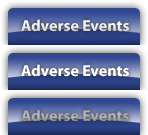
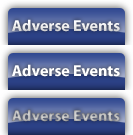
David---new look & feel update 2
SVN-Revision: 5912

diff --git a/projects/web/src/main/webapp/css/common.css b/projects/web/src/main/webapp/css/common.css
@@ -9,25 +9,51 @@ body {
   text-align:center
 }
 
-#workflow-tabs{
-	width: 200px;
-	float: left;
-	margin-top: 140px;
-
+.workflow-tabs{
+	position: relative;
+	top: 140px;
+	width:950px;
+	background-color: #666;
+	z-index: 0;
+	padding-top: 15px;
+	padding-right: 15px;
+	padding-bottom: 5px;
+	padding-left: 15px;
+	background-image: url(../images/blue/thirdlevelnav_grey_gradient.png);
+	background-repeat:repeat-x;
+	background-position:bottom;
 }
 #thirdlevelnav{
-	padding-top: 15px;
-	padding-right: 0px;
-	padding-bottom: 15px;
-	padding-left: 0px;
+	margin:5px;
 }
 
+#thirdlevelnav div{
+	background-image: url(../images/blue/thirdlevelarrow_grey.png);
+	background-repeat: no-repeat;
+	background-position:right;
+	padding-right: 20px;
+
+}
+#thirdlevelnav div a{
+	text-decoration:none;
+	color: #fff;
+}
+#thirdlevelnav div a:hover{text-decoration:underline}
+#thirdlevelnav div a:active{
+	color:#CCCCCC
+}
+
+#thirdlevelnav.last div{background-image:none;}
+#thirdlevelnav.selected div a{
+    color:#fff;
+	font-weight: bold;
+}
 
 .hr{
 	background-color: #999999;
-	height: 1px;
+	height: 2px;
 	margin-right: 4px;
-	margin-left: 15px;
+	margin-left: 20px;
 }
 
 a {outline:none;}
@@ -104,8 +130,9 @@ background-position: 0px -200px;
 	top: 0px;
 	right: -9px;
 	padding-top: 2px;
-	padding-left: 15px;
 	background-repeat: no-repeat;
+	text-align: center;
+	margin-right:15px;
 }
 
 #login-action a {
@@ -130,12 +157,14 @@ firstlevelnav_searchStudyController: Studies
 
 */
 
+
 a#firstlevelnav_listAdverseEventsController {
 	background-image: url(../images/blue/adverseEvents_btn.png);
 	height: 45px;
-	width: 148px;
+	width: 133px;
 	text-indent: -9999px;
 	float: left;
+	margin-right: -5px;
 }
 a#firstlevelnav_listAdverseEventsController:link{background-position:0px;}
 a#firstlevelnav_listAdverseEventsController:hover{background-position:0px -45px;}
@@ -145,9 +174,11 @@ a#firstlevelnav_listAdverseEventsController:active{background-position:0px -90px
 a#firstlevelnav_searchStudyController {
 	background-image: url(../images/blue/studies_btn.png);
 	height: 45px;
-	width: 148px;
+	width: 133px;
 	text-indent: -9999px;
 	float: left;
+margin-right: -5px;
+margin-left: -5px;
 }
 a#firstlevelnav_searchStudyController:link{background-position:0px;}
 a#firstlevelnav_searchStudyController:hover{background-position:0px -45px;}
@@ -158,9 +189,11 @@ a#firstlevelnav_searchStudyController:active{background-position:0px -90px;}
 a#firstlevelnav_createParticipantController {
 	background-image: url(../images/blue/subjects_btn.png);
 	height: 45px;
-	width: 148px;
+	width: 133px;
 	text-indent: -9999px;
 	float: left;
+	margin-right: -5px;
+margin-left: -5px;
 }
 a#firstlevelnav_createParticipantController:link{background-position:0px;}
 a#firstlevelnav_createParticipantController:hover{background-position:0px -45px;}
@@ -170,9 +203,11 @@ a#firstlevelnav_createParticipantController:active{background-position:0px -90px
 a#firstlevelnav_createRuleController {
 	background-image: url(../images/blue/rules_btn.png);
 	height: 45px;
-	width: 148px;
+	width: 133px;
 	text-indent: -9999px;
 	float: left;
+	margin-right: -5px;
+margin-left: -5px;
 }
 a#firstlevelnav_createRuleController:link{background-position:0px;}
 a#firstlevelnav_createRuleController:hover{background-position:0px -45px;}
@@ -182,26 +217,40 @@ a#firstlevelnav_createRuleController:active{background-position:0px -90px;}
 a#firstlevelnav_studyController {
 	background-image: url(../images/blue/advancedSearch_btn.png);
 	height: 45px;
-	width: 148px;
+	width: 133px;
 	text-indent: -9999px;
 	float: left;
+	margin-right: -5px;
+margin-left: -5px;
 }
 a#firstlevelnav_studyController:link{background-position:0px;}
 a#firstlevelnav_studyController:hover{background-position:0px -45px;}
 a#firstlevelnav_studyController:active{background-position:0px -90px;}
 .selected a#firstlevelnav_studyController {background-image: url(../images/blue/advancedSearch_btn_selected.png);}
 
+a#firstlevelnav_configurationController {
+	background-image: url(../images/blue/administration_btn.png);
+	height: 45px;
+	width: 133px;
+	text-indent: -9999px;
+	float: left;
+	margin-right: -5px;
+margin-left: -5px;
+}
+a#firstlevelnav_configurationController:link{background-position:0px;}
+a#firstlevelnav_configurationController:hover{background-position:0px -45px;}
+a#firstlevelnav_configurationController:active{background-position:0px -90px;}
+.selected a#firstlevelnav_configurationController {background-image: url(../images/blue/administration_btn_selected.png);}
 
 #sso-form { display: none }
 
 #build-name {
-    color: #666;
-    font-size: 85%;
-    padding: 3px;
-    position: relative;
-    bottom: 0px;
-    clear: both;
-    float: left;
+	color: #666;
+	font-size: 85%;
+	padding: 3px;
+	position: absolute;
+	bottom: -150px;
+	margin-left: 20px;
 }
 
 /**** COMMON TAB STYLES (shared across all three levels) */
@@ -215,8 +264,7 @@ ul.tabs {
 ul.tabs li {
   display: block;
   list-style-type: none;
-
-  margin: 0;
+  float:left;
   padding: 0;
 }
 
@@ -257,11 +305,11 @@ ul.tabs li {
 	padding-left: 10px;
 	color: #FFFFFF;
 	vertical-align: middle;
-	z-index: -0;
+	z-index: 1;
 
 }
 
-#taskbar a {
+#taskbar a.lte4{
 	color:#FFF;
 	text-decoration: none;
 	height: 43px;
@@ -271,12 +319,46 @@ ul.tabs li {
 	font-weight: bold;
 }
 
+#taskbar a.gt4{
+	color:#FFF;
+	text-decoration: none;
+	height: 19px;
+	width: 232px;
+	float:left;
+	padding-top: 2px;
+	font-weight: bold;
+	font-size: 12px;
+	text-indent: 10px;
+	margin-top: 1px;
+	margin-right: 2px;
+}
+
+#taskbar a.lte4 img{
+margin-right:7px;
+margin-left:5px;
+}
+
 #taskbar a:hover {
   color:#ffe9a5;
 }
 
-#taskbar a.selected{
+#taskbar a.lte4 img.imagegt18{
+float:left;
+margin-top:6px;
+}
+
+#taskbar a.lte4.gt18{
+padding-top:2px;
+}
+
+#taskbar a.selected.lte4{
 	background-image: url(../images/blue/secondlevelnav_selected.jpg);
+	background-repeat: no-repeat;
+
+}
+
+#taskbar a.selected.gt4{
+	background-image: url(../images/blue/secondlevelnav_gt4_selected.png);
 	background-repeat: no-repeat;
 
 }
@@ -329,7 +411,7 @@ ul.tabs li {
 	margin-bottom: 12px;
 	background-image: url(../images/blue/box_bg.jpg);
 	background-repeat: repeat-x;
-	float:left;
+
 
 
 }
@@ -338,10 +420,12 @@ ul.tabs li {
 .box .header h2 {
 	color: #333366;
 	margin: 0;
-	padding: 6px 20px 4px 8px;
-	font-size: 13pt;
-	font-weight: 900;
-	text-transform: capitalize;
+	font-size: 1.7em;
+	padding-top: 6px;
+	padding-right: 20px;
+	padding-left: 20px;
+	font-weight:normal;
+
 }
 .box .header .background-L { background: url(../images/blue/box_header_bg_l.jpg) no-repeat top left; }
 .box .header .background-R { background: url(../images/blue/box_header_bg_r.jpg) no-repeat top right; }
@@ -371,10 +455,16 @@ ul.tabs li {
 }
 
 .box h3 {
-  position: relative;
-  border-top: solid 1px #000;
-  background: url(../images/chrome/boxsubhead_BG.png) repeat-x bottom #c9e3eb;
-  padding: 4px 8px;
+	position: relative;
+	padding-top: 4px;
+	padding-right: 8px;
+	padding-bottom: 1px;
+	padding-left: 8px;
+	font-size: 1em;
+	color: #2e3257;
+	border-bottom-width: 1px;
+	border-bottom-style: solid;
+	border-bottom-color: #CCCCCC;
 }
 
 /**** TABS WITHIN A BOX */
@@ -419,6 +509,7 @@ ul.tabs li {
 .box.paired {
     width: 45%;
     margin: 1em;
+	float:left;
 }
 
 .division {
@@ -534,7 +625,7 @@ div.row div.label, div.row div.value {
   line-height: 1.5em;
 }
 div.row div.label {
-  font-weight: bold;
+  font-weight: normal;
   float: left;
   margin-left: 0.5em;
   text-align: right;

diff --git a/projects/web/src/main/webapp/css/fields.css b/projects/web/src/main/webapp/css/fields.css
@@ -43,7 +43,10 @@ div.autocomplete ul {
     margin: 0;
     padding: 0;
 }
-div.autocomplete ul li.selected { background-color: #ffb;}
+div.autocomplete ul li.selected {
+	background-color: #314993;
+	color: #fff;
+}
 div.autocomplete ul li {
     list-style-type: none;
     display: block;

diff --git a/projects/web/src/main/webapp/css/tabbedflow.css b/projects/web/src/main/webapp/css/tabbedflow.css
@@ -70,7 +70,6 @@ padding-right:12px;
 /**** FLOW-SPECIFIC CONTROLS */
 
 .buttons {
-  border-top: 1px solid #000;
   clear: both;
 }
 
